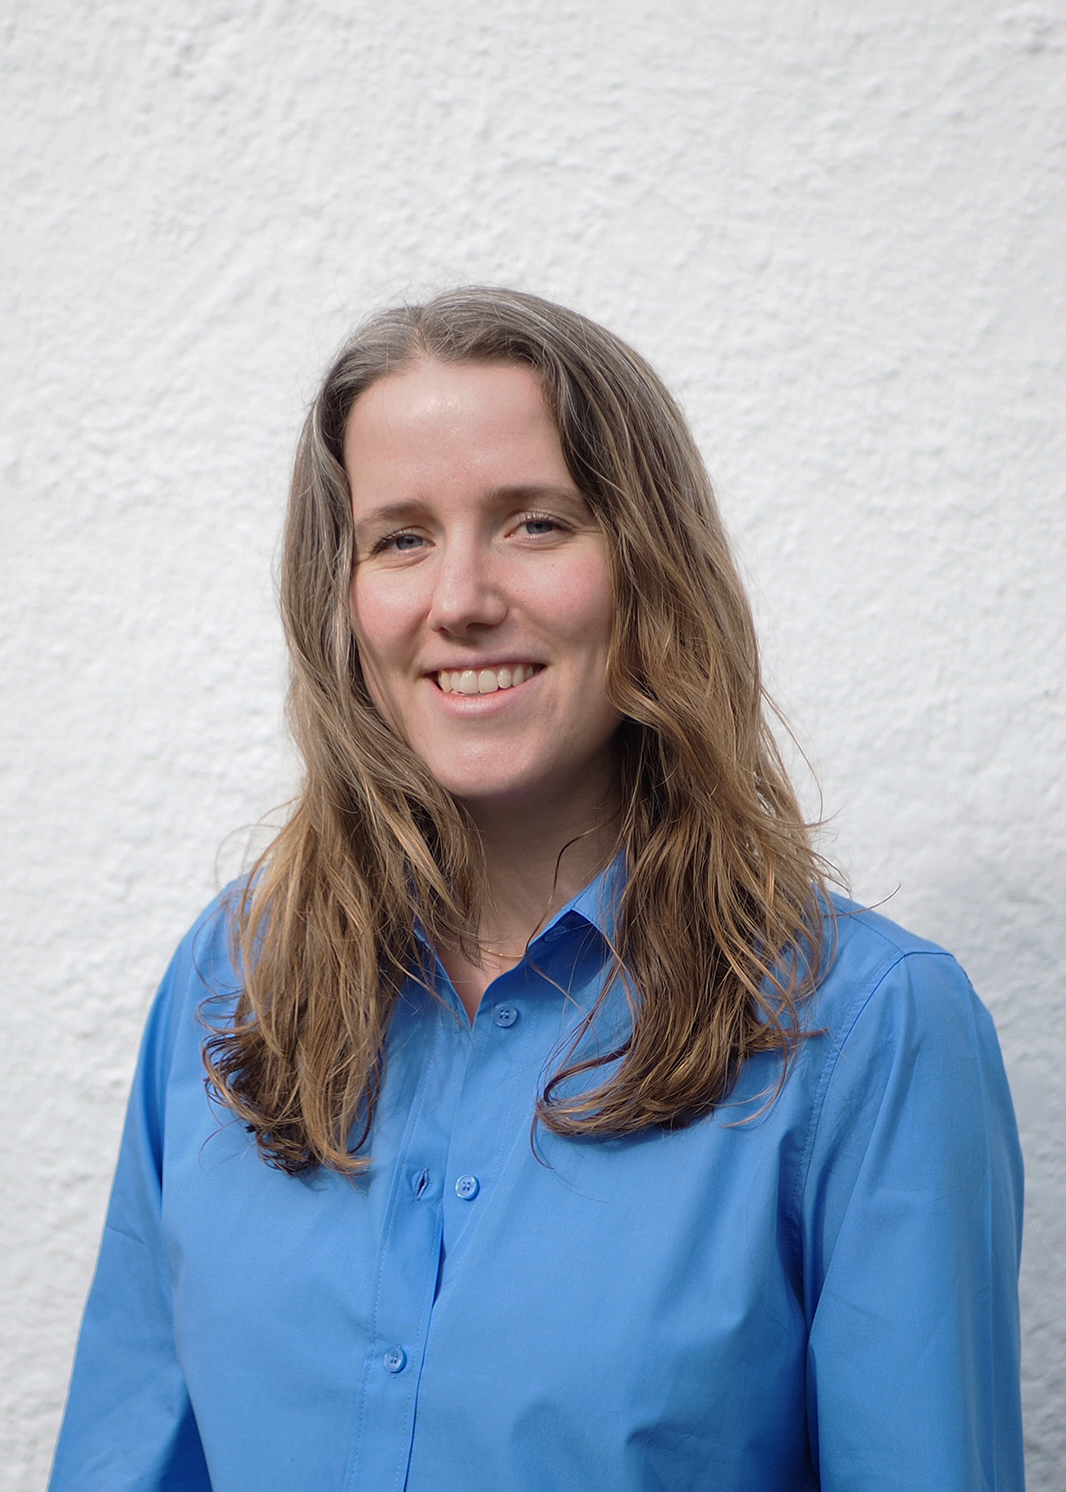
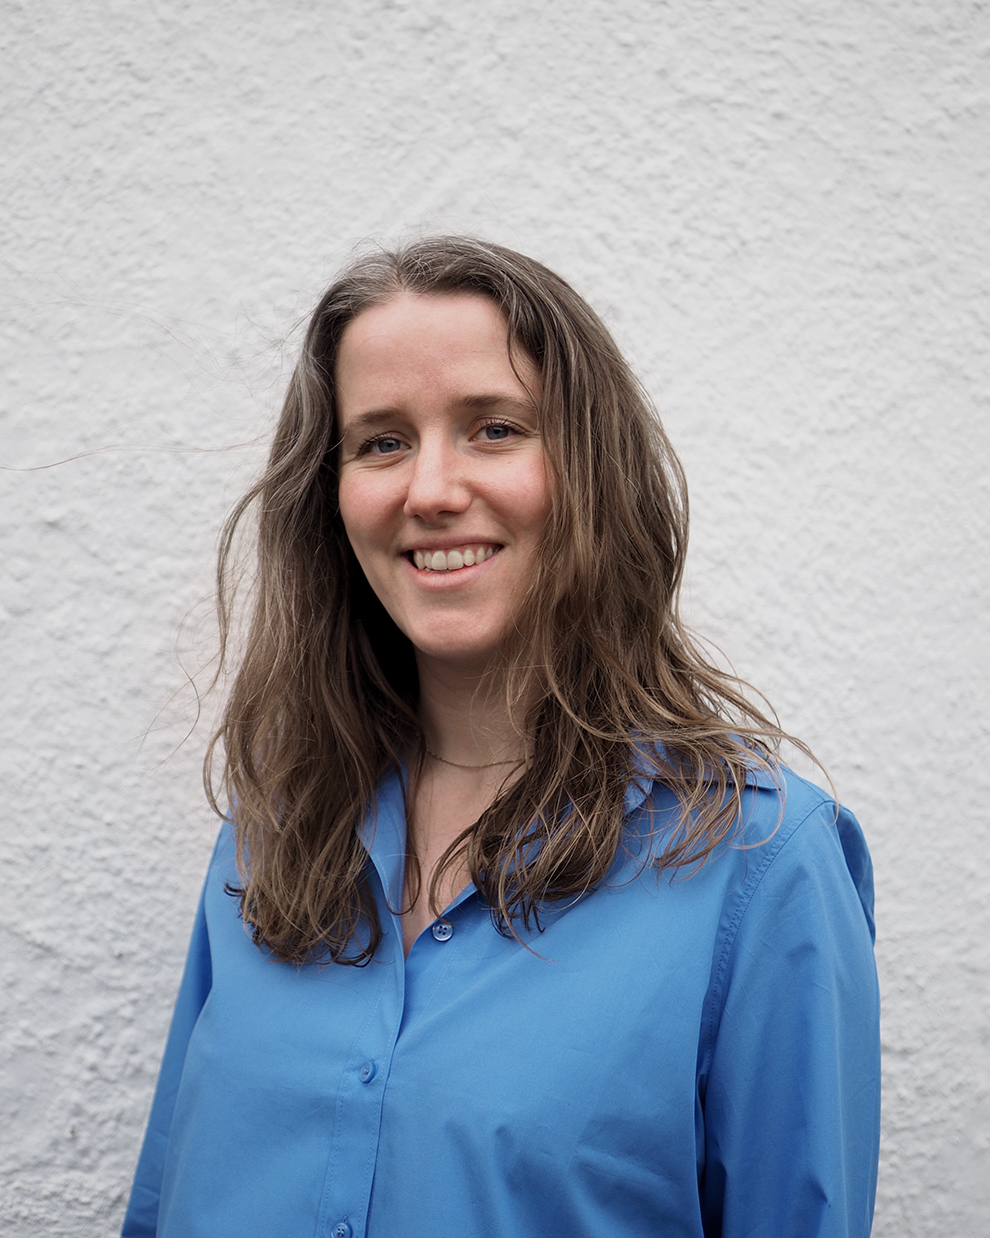
Various improvements

diff --git a/_pages/about_cv.html b/_pages/about_cv.html
@@ -5,16 +5,15 @@ layout: default
 
 <div class="about-cv-container">
     <div class="about-cv-item about-cv-sidebar">
-        <img src="/assets/images/profile picture_high.jpg" alt="profile picture" class="about-cv-profile-picture">
+        <img src="/assets/images/profile picture_low.jpg" alt="profile picture" class="about-cv-profile-picture">
         <div class="about-cv-sidebar-item" style="line-height: 2;">
-            As an aspiring architect currently studying at the Royal Danish Academy of Fine Arts, School of
-            Architecture, I am passionate about creating sustainable and socially responsible designs that positively
-            impact both the environment and society. With a keen interest in the environmental impact of architecture, I
-            am committed to implementing sustainable practices and materials into my designs in order to reduce the
-            carbon footprint of the built environment. Additionally, I am deeply invested in exploring how architecture
-            can contribute to the well-being and development of local communities. Through my studies, I have developed a
-            strong set of skills in design, drafting, and project management, and am excited to apply these skills to
-            create innovative, sustainable, and socially responsible architecture.
+            With a keen interest in the environmental impact of architecture, I am committed to implementing
+            eco-friendly practices and materials into my designs in order to reduce the carbon footprint of the built
+            environment. Additionally, I am deeply invested in exploring how architecture with socially responsible
+            designs can contribute to the wellbeing and development of local communities. Through my studies at The Royal
+            Danish Academy in Copenhagen, I have developed a strong set of skills in design, drafting, and project
+            management, and am excited to apply these skills to create innovative, sustainable, and socially responsible
+            architecture.
         </div>
         <div class="about-cv-sidebar-item about-cv-contact-info">
             {% include author-profile.html %}

diff --git a/_includes/carousel.html b/_includes/carousel.html
@@ -14,13 +14,12 @@
     <div class="carousel-inner">
         <!-- The first item needs to also have the "active" style applied which is why it is split out -->
         <div class="carousel-item active">
-            <img src="{{ page.carousels[number].images[0].image }}" class="d-block w-100"
-                alt="{{ page.carousels[number].images[0].image }}">
+            <img src="{{ page.carousels[number].images[0].image }}" class="d-block w-100" alt="{{ page.carousels[number].images[0].alt }}">
         </div>
         <!-- We then offset the array to not include the first one this time -->
         {% for item in page.carousels[number].images offset:1 %}
         <div class="carousel-item">
-            <img src="{{ item.image }}" class="d-block w-100" alt="...">
+            <img src="{{ item.image }}" class="d-block w-100" alt="{{ item.alt }}">
         </div>
         {% endfor %}
     </div>

diff --git a/_includes/archive-single.html b/_includes/archive-single.html
@@ -17,6 +17,9 @@
         <a href="{{ post.url | relative_url }}" rel="permalink">{{ title }}</a>
         <hr class="header-underline">
       </h2>
+      <p class="archive__item-excerpt">
+        {{ post.description | markdownify | strip_html }}
+      </p>
       {% if post.excerpt %}<p class="archive__item-excerpt" itemprop="description">{{ post.excerpt | markdownify |
         strip_html | truncate: 160 }}</p>{% endif %}
     </article>

diff --git a/_sass/_about-cv.scss b/_sass/_about-cv.scss
@@ -49,7 +49,6 @@
         // margin: 0 20px 50px 20px;
         max-width: 300px;
         font-size: 14px;
-        text-align: justify;
         
         margin-right: 120px;
     }

diff --git a/_posts/2022-11-01-bangsbogaard.md b/_posts/2022-11-01-bangsbogaard.md
@@ -3,9 +3,19 @@ title:  2O21 &#124; Bangsbogård
 permalink: /bangsbogaard/
 header_image: /assets/images/bangsbogaard/bangsbogaard_til_web12.jpg
 classes: wide
-order: 2
+order: 1
+description: 7th semester project
 carousels:
   - images: 
+    - image: /assets/images/bangsbogaard/bangsbogaard_til_web10.jpg
+      alt: Picture showing how the house opens
+    - image: /assets/images/bangsbogaard/bangsbogaard_til_web11.jpg
+    - image: /assets/images/bangsbogaard/bangsbogaard_til_web12.jpg
+    - image: /assets/images/bangsbogaard/bangsbogaard_til_web13.jpg
+    - image: /assets/images/bangsbogaard/bangsbogaard_til_web14.jpg
+    - image: /assets/images/bangsbogaard/bangsbogaard_til_web15.jpg
+    - image: /assets/images/bangsbogaard/bangsbogaard_til_web16.jpg
+    - image: /assets/images/bangsbogaard/bangsbogaard_til_web17.jpg
     - image: /assets/images/bangsbogaard/bangsbogaard_til_web.jpg
     - image: /assets/images/bangsbogaard/bangsbogaard_til_web2.jpg
     - image: /assets/images/bangsbogaard/bangsbogaard_til_web3.jpg
@@ -15,14 +25,6 @@ carousels:
     - image: /assets/images/bangsbogaard/bangsbogaard_til_web7.jpg
     - image: /assets/images/bangsbogaard/bangsbogaard_til_web8.jpg
     - image: /assets/images/bangsbogaard/bangsbogaard_til_web9.jpg
-    - image: /assets/images/bangsbogaard/bangsbogaard_til_web10.jpg
-    - image: /assets/images/bangsbogaard/bangsbogaard_til_web11.jpg
-    - image: /assets/images/bangsbogaard/bangsbogaard_til_web12.jpg
-    - image: /assets/images/bangsbogaard/bangsbogaard_til_web13.jpg
-    - image: /assets/images/bangsbogaard/bangsbogaard_til_web14.jpg
-    - image: /assets/images/bangsbogaard/bangsbogaard_til_web15.jpg
-    - image: /assets/images/bangsbogaard/bangsbogaard_til_web16.jpg
-    - image: /assets/images/bangsbogaard/bangsbogaard_til_web17.jpg
 ---
 
 Læsø is a small Danish island that is known for its long history of producing salt and its unique traditional seaweed thatched buildings. In recent years the island has experienced a significant decline in population due to ageing and young people moving away. The settlements are scattered across the island, with many former farms standing empty or used as holiday homes for a small portion of the year.

diff --git a/_posts/2022-08-01-national_team_training_facilities.md b/_posts/2022-08-01-national_team_training_facilities.md
@@ -1,9 +1,10 @@
 ---
 title:  "2O22 &#124; Training facilities for national team"
 permalink: /national-team-training-facilities/
-header_image: /assets/images/dbu/01_dbu.jpg
+header_image: /assets/images/dbu/08_dbu_web.jpg
 classes: wide
-order: 3
+description: 8th semester six week project
+order: 2
 carousels:
   - images: 
      - image: /assets/images/dbu/01_dbu.jpg
@@ -15,7 +16,6 @@ carousels:
      - image: /assets/images/dbu/07_dbu_web.jpg
      - image: /assets/images/dbu/08_dbu_web.jpg
      - image: /assets/images/dbu/09_dbu_web.jpg
-     - image: /assets/images/dbu/10_dbu_web.jpg
 ---
 
 This proposal was developed for the Danish Football Association, as the male national team needed new training facilities. The brief was to create a large open space for functional training with storage facilities and direct access to the field while using primarily sustainable building materials.

diff --git a/_posts/2022-07-01-siza_and_critical_regionalism.md b/_posts/2022-07-01-siza_and_critical_regionalism.md
@@ -1,7 +1,8 @@
 ---
 title:  "2O22 &#124; Siza and critical regionalism"
 permalink: /siza-critical-regionalism/
-header_image: /assets/images/siza_and_critical_regionalism_web/siza_and_critical_regionalism_web0.jpg
+header_image: /assets/images/siza_and_critical_regionalism_web/siza_and_critical_regionalism_web10.jpg
+description: 9th semester written assignment
 classes: wide
 order: 6
 carousels:

diff --git a/_posts/2022-12-01-dark_sky_observatory.md b/_posts/2022-12-01-dark_sky_observatory.md
@@ -2,8 +2,9 @@
 title:  2O23 &#124; Dark sky observatory
 permalink: /dark-sky-observatory/
 header_image: /assets/images/program/Program_web_forside.jpg
+description: Masters thesis (current project)
 classes: wide
-order: 1
+order: 3
 carousels:
   - images: 
     - image: /assets/images/program/Program_web.jpg

diff --git a/_posts/2022-10-01-textile_tectonics.md b/_posts/2022-10-01-textile_tectonics.md
@@ -2,6 +2,7 @@
 title:  2O23 &#124; Textile Tectonics
 permalink: /textile-tectonics/
 header_image: /assets/images/textile_tectonics/textile_tectonics_banner.jpg
+description: 9th semester 6 week project
 classes: wide
 order: 4
 carousels:

diff --git a/_posts/2022-09-01-between_walls.md b/_posts/2022-09-01-between_walls.md
@@ -2,6 +2,7 @@
 title:  2O22 &#124; Between walls
 permalink: /between-walls/
 header_image: '/assets/images/between_walls/between_walls12.jpg'
+description: 8th semester project
 classes: wide
 order: 5
 carousels:
